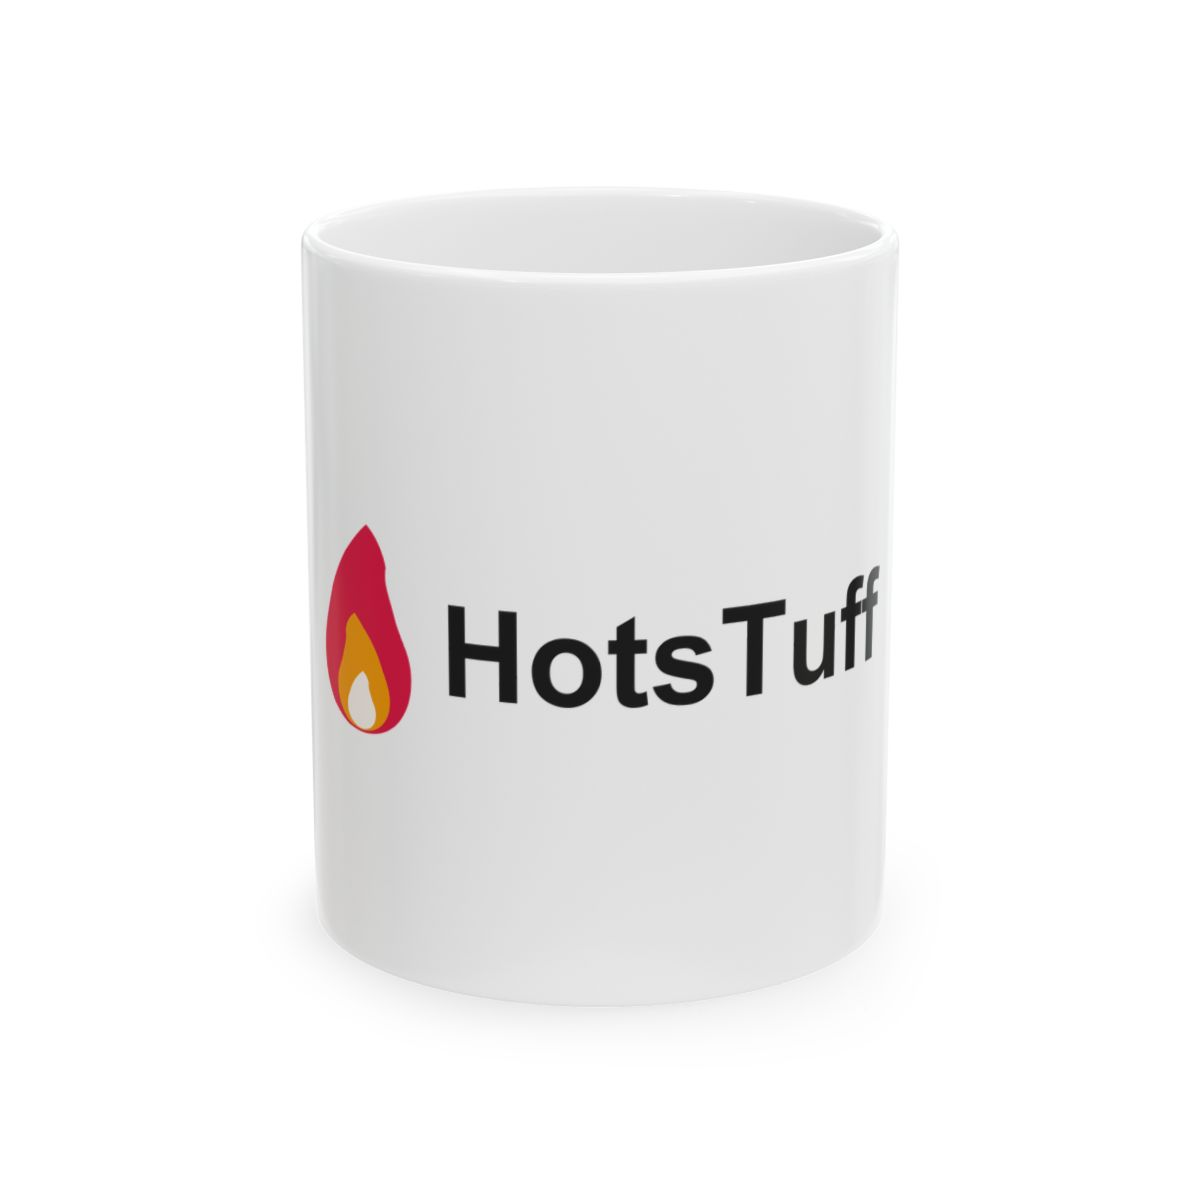
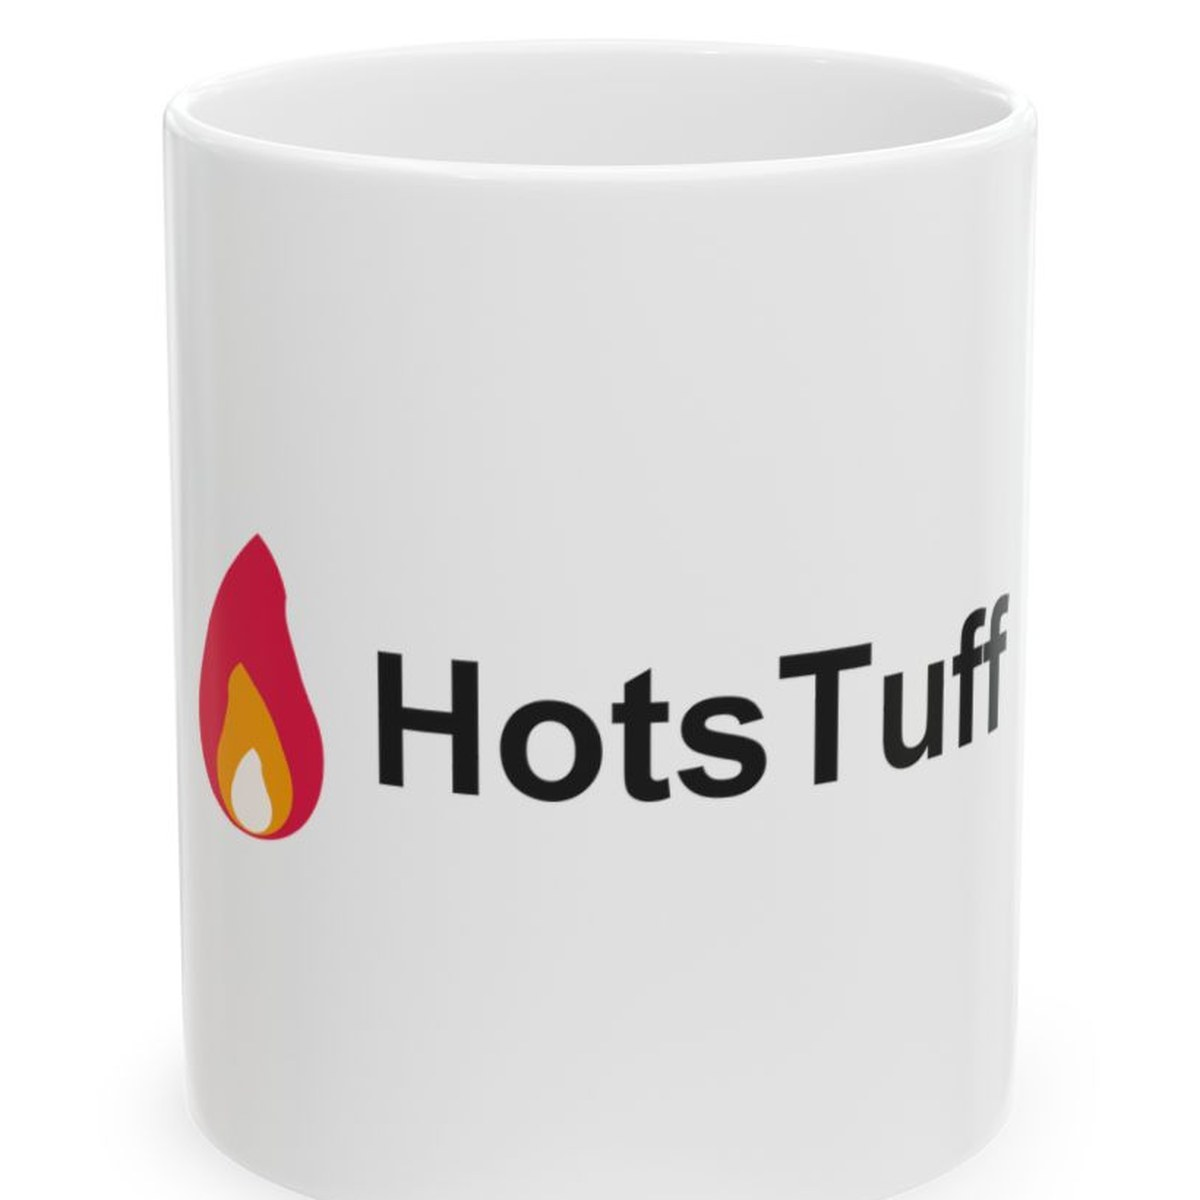
Merch visuals: zoomed mug tile photo + blank white tee behind the design-upload zone

diff --git a/styles.css b/styles.css
@@ -779,7 +779,8 @@ a.merch-card {
   aspect-ratio: 1;
   cursor: pointer;
   background:
-    linear-gradient(135deg, rgba(225, 29, 72, 0.06), rgba(245, 158, 11, 0.08));
+    linear-gradient(135deg, rgba(225, 29, 72, 0.05), rgba(245, 158, 11, 0.06)),
+    url("assets/merch/blank-tee.jpg") center/cover no-repeat;
   border-bottom: 1px solid var(--border);
   position: relative;
   overflow: hidden;
@@ -797,7 +798,10 @@ a.merch-card {
   color: var(--muted, #7a6a72);
   font-size: 0.9rem;
   line-height: 1.5;
-  padding: 12px;
+  padding: 12px 16px;
+  background: rgba(255, 255, 255, 0.72);
+  border-radius: 12px;
+  max-width: 82%;
 }
 .merch-drop-hint b { color: var(--accent-a); }
 .merch-drop-icon { display: block; font-size: 1.8rem; margin-bottom: 6px; }

diff --git a/index.html b/index.html
@@ -86,7 +86,7 @@
           <div class="merch-info"><h3>Flame Flat Bill Cap</h3><span class="merch-badge">$29.99</span></div>
         </a>
         <a class="merch-card" href="https://hotstuff-store.printify.me/product/30345175" target="_blank" rel="noopener">
-          <img src="assets/merch/mug.jpg" alt="HotsTuff flame logo ceramic mug" loading="lazy">
+          <img src="assets/merch/mug.jpg?v=2" alt="HotsTuff flame logo ceramic mug" loading="lazy">
           <div class="merch-info"><h3>Morning Fuel Mug</h3><span class="merch-badge">$16.99</span></div>
         </a>
         <a class="merch-card" href="https://hotstuff-store.printify.me/product/30345176" target="_blank" rel="noopener">
